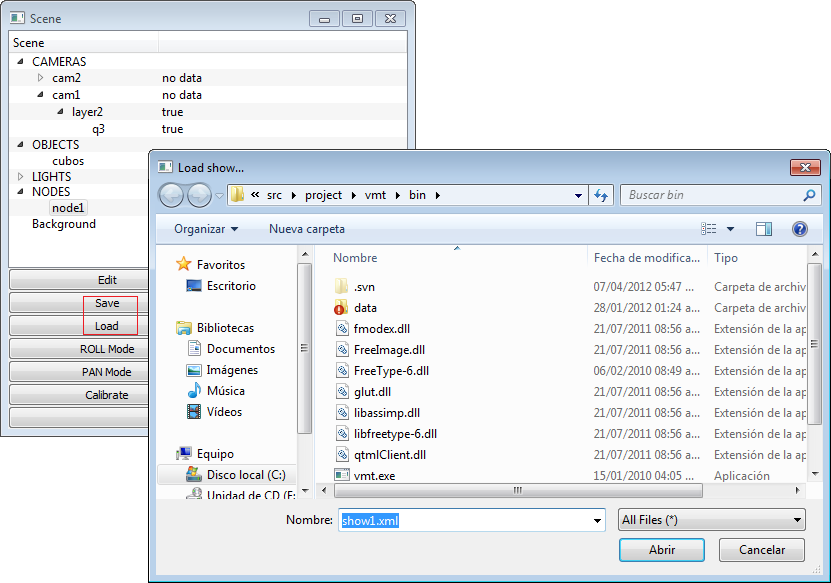
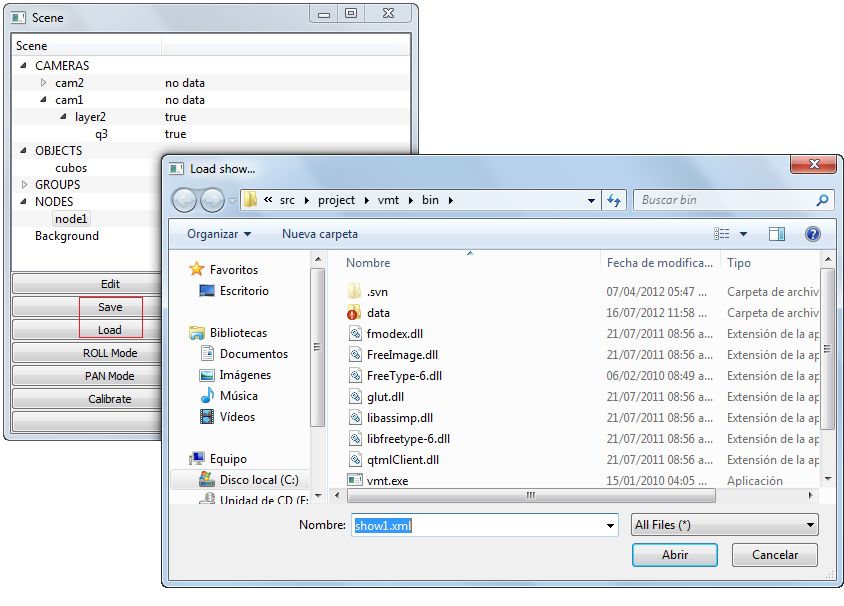
cambios imagenes grupos e imagenes cambio en referencia de imagen en metodo triangulacion

Changed region(s): [[0.0, 0.0, 1.0, 1.0]]

diff --git a/stateofart/DocRedesign/latex_doc/Apendices/metodo_triangulacion/metodo_triangulacion.tex b/stateofart/DocRedesign/latex_doc/Apendices/metodo_triangulacion/metodo_triangulacion.tex
@@ -7,7 +7,7 @@ Escena con dos dimensiones:
 \begin{figure}[H]
   \centering
     \includegraphics[width=0.65\textwidth]{./Cap2_videomapping/triangulacion.PNG}
-  \caption[Imagen propia.]{Propiedades trigonométricas para escena bidimensional.}
+  \caption[Reinhard Klette, Karsten Schlüns, Andreas Koschan, Computer Vision:Three-Dimensional Data from Images, Fig. 9.1]{Propiedades trigonométricas para escena bidimensional.}
   \label{fig:Triangulacion}
 \end{figure}
 
@@ -39,7 +39,7 @@ Escena con tres dimensiones:
 \begin{figure}[H]
   \centering
     \includegraphics[width=0.65\textwidth]{./Cap2_videomapping/triangulacion-2.PNG}
-  \caption[Imagen propia.]{Propiedades trigonométricas para escena tridimensional.}
+  \caption[Reinhard Klette, Karsten Schlüns, Andreas Koschan, Computer Vision:Three-Dimensional Data from Images, Fig. 9.2]{Propiedades trigonométricas para escena tridimensional.}
   \label{fig:Triangulacion2}
 \end{figure}
 
